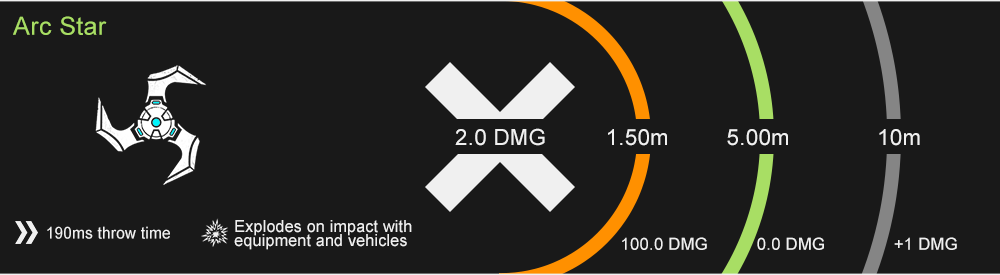
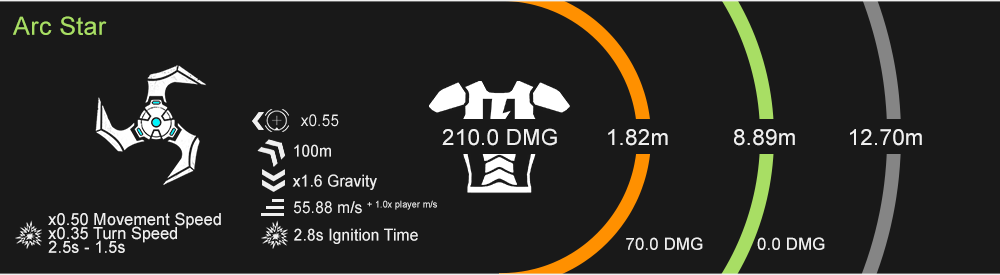
Added page title to Recoil Patterns page Updated Arc Star and Frag Grenade Placeholder Charts

diff --git a/webpage/pages/apex/recoilpatterns/apex_recoilPatterns.html b/webpage/pages/apex/recoilpatterns/apex_recoilPatterns.html
@@ -1,118 +1,4 @@
-<div style='text-align: center; padding: 25px; margin:auto; width: 400px;'>
-  <h1>APEX vehicle data page</h1>
-</div>
 <div>
-
-<!--  <script type="text/javascript" src="./pages/apex/recoilpatterns/plotlyjs-bundle.js"></script>-->
-<!--  <script type="text/javascript" src="./pages/apex/recoilpatterns/figure.js"></script>-->
-<!--  <script type="text/javascript" src="/pages/apex/recoilpatterns/plotlyjs-bundle.js"></script>-->
-<!--  <script type="text/javascript" src="/pages/apex/recoilpatterns/figure.js"></script>-->
-<!--  webpage/pages/apex/recoilpatterns/plotlyjs-bundle.js-->
-  <div class="recoilGraph" id="1abf0259-75e8-47b9-96f9-6e32ec35bc8d" style="text-align: center; padding: 25px; margin:auto; width: 1000px; height: 1000px;" class="plotly-graph-div"></div>
-<!--  <script type="text/javascript">-->
-<!--    (function(){-->
-<!--      window.PLOTLYENV={'BASE_URL': 'https://plot.ly'};-->
-
-<!--      var gd = document.getElementById('1abf0259-75e8-47b9-96f9-6e32ec35bc8d')-->
-<!--      var resizeDebounce = null;-->
-
-<!--      function resizePlot() {-->
-<!--        var bb = gd.getBoundingClientRect();-->
-<!--        Plotly.relayout(gd, {-->
-<!--          data: figure.data,-->
-<!--          width: bb.width,-->
-<!--          height: bb.height-->
-<!--        });-->
-<!--      }-->
-
-
-
-
-<!--      Plotly.plot(gd,  {-->
-<!--        data: figure.data,-->
-<!--        layout: figure.layout,-->
-<!--        frames: figure.frames,-->
-<!--        config: {"showLink": true, "linkText": "Export to plot.ly", "mapboxAccessToken": "pk.eyJ1IjoiY2hyaWRkeXAiLCJhIjoiY2lxMnVvdm5iMDA4dnhsbTQ5aHJzcGs0MyJ9.X9o_rzNLNesDxdra4neC_A"}-->
-<!--      });-->
-
-<!--      gd.scrollIntoView({-->
-<!--        behavior: 'smooth',-->
-<!--        block: 'center'-->
-<!--      });-->
-<!--    }());-->
-<!--    // $("#shortcutCombobox").combobox({-->
-<!--    //   select: function (event, ui) {-->
-<!--    //     $("." + this.value.replace(/ |\//g,""))[0].scrollIntoView({-->
-<!--    //       behavior: 'smooth'-->
-<!--    //     });-->
-<!--    //   }-->
-<!--    // });-->
-<!--  </script>-->
+	<h1 class="comp-pageTitle" style="width: 1200px; margin: 21px auto 60px;">Apex Legends Recoil Patterns</h1>
+	<div class="recoilGraph js-plotly-plot" id="1abf0259-75e8-47b9-96f9-6e32ec35bc8d" style="text-align: center; padding: 25px; margin:auto; width: 1000px; height: 1000px;"></div>
 </div>
-
-<!--void function DrawTracerOverTime( vector origin, vector dir, float time )-->
-<!--{-->
-<!--	float frac-->
-<!--	float x-->
-<!--	float y-->
-<!--	float timeFrac-->
-<!--	float interval-->
-<!--	float lastInterval = 0.0-->
-
-<!--	int counter = 1-->
-
-<!--	while ( counter <= 10 )-->
-<!--	{-->
-<!--		frac = counter / 10.0-->
-<!--		x = 1 - frac-->
-<!--		y = x * x * x * x-->
-<!--		frac = 1 - y-->
-<!--		timeFrac = time * frac-->
-<!--		interval = timeFrac - lastInterval-->
-<!--		lastInterval = timeFrac-->
-
-<!--		DebugDrawLine( origin, origin + dir * frac, 255, 255, 150, false, interval + 0.05 )-->
-<!--		Wait( interval )-->
-
-<!--		counter++-->
-<!--	}-->
-<!--}-->
-
-<!-- void function DebugDrawWeapon( entity weapon ) -->
-<!-- { -->
-	<!-- float drawTime 		= 20.0 -->
-	<!-- float radius -->
-
-	<!-- float spreadAngle 	= weapon.GetAttackSpreadAngle() -->
-	<!-- float spreadSin 	= deg_sin( spreadAngle * 0.5 ) -->
-	<!-- float nearDist 		= weapon.GetWeaponSettingFloat( eWeaponVar.damage_near_distance ) -->
-	<!-- float farDist 		= weapon.GetMaxDamageFarDist() -->
-
-	<!-- int nearDmg 		= weapon.GetProjectileWeaponSettingInt( eWeaponVar.damage_near_value ) -->
-	<!-- int farDmg 			= weapon.GetProjectileWeaponSettingInt( eWeaponVar.damage_far_value ) -->
-
-	<!-- vector barrelPos 	= weapon.GetAttackPosition() -->
-	<!-- vector barrelVec 	= weapon.GetAttackDirection() -->
-	<!-- vector circleAng 	= AnglesCompose( VectorToAngles( barrelVec ), <90,0,0> ) -->
-
-	<!-- vector nearPos 		= barrelPos + ( barrelVec * nearDist ) -->
-	<!-- vector farPos 		= barrelPos + ( barrelVec * farDist ) -->
-
-	<!-- // Straight line for center cone -->
-	<!-- DebugDrawLine( barrelPos, nearPos, 255, 0, 0, true, drawTime ) -->
-	<!-- DebugDrawLine( nearPos, farPos, 255, 255, 0, true, drawTime ) -->
-
-	<!-- // Circle representing spread at near distance -->
-	<!-- radius = spreadSin * nearDist -->
-	<!-- array<vector> pointsOnCircleNear = DebugDrawCircle( nearPos, circleAng, radius, 255, 0, 0, true, drawTime ) -->
-	<!-- for ( int i = 0; i < pointsOnCircleNear.len(); i++ ) -->
-		<!-- DebugDrawLine( barrelPos, pointsOnCircleNear[i], 255, 0, 0, true, drawTime ) -->
-	<!-- DebugDrawText( nearPos + <0, 0, radius + 15>, string( nearDmg ), true, drawTime ) -->
-
-	<!-- // Circle representing spread at far distance -->
-	<!-- radius = spreadSin * farDist -->
-	<!-- array<vector> pointsOnCircleFar = DebugDrawCircle( farPos, circleAng, radius, 255, 255, 0, true, drawTime ) -->
-	<!-- for ( int i = 0; i < pointsOnCircleFar.len(); i++ ) -->
-		<!-- DebugDrawLine( pointsOnCircleNear[i], pointsOnCircleFar[i], 255, 255, 0, true, drawTime ) -->
-	<!-- DebugDrawText( farPos + <0, 0, radius + 15>, string( farDmg ), true, drawTime ) -->
-<!-- } -->
